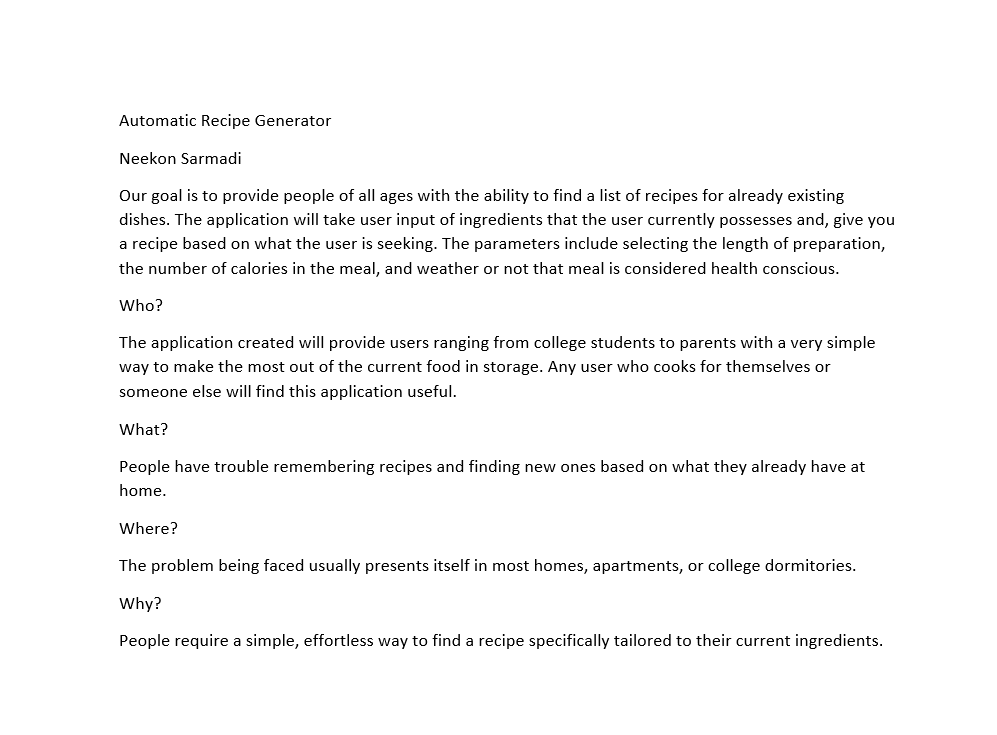
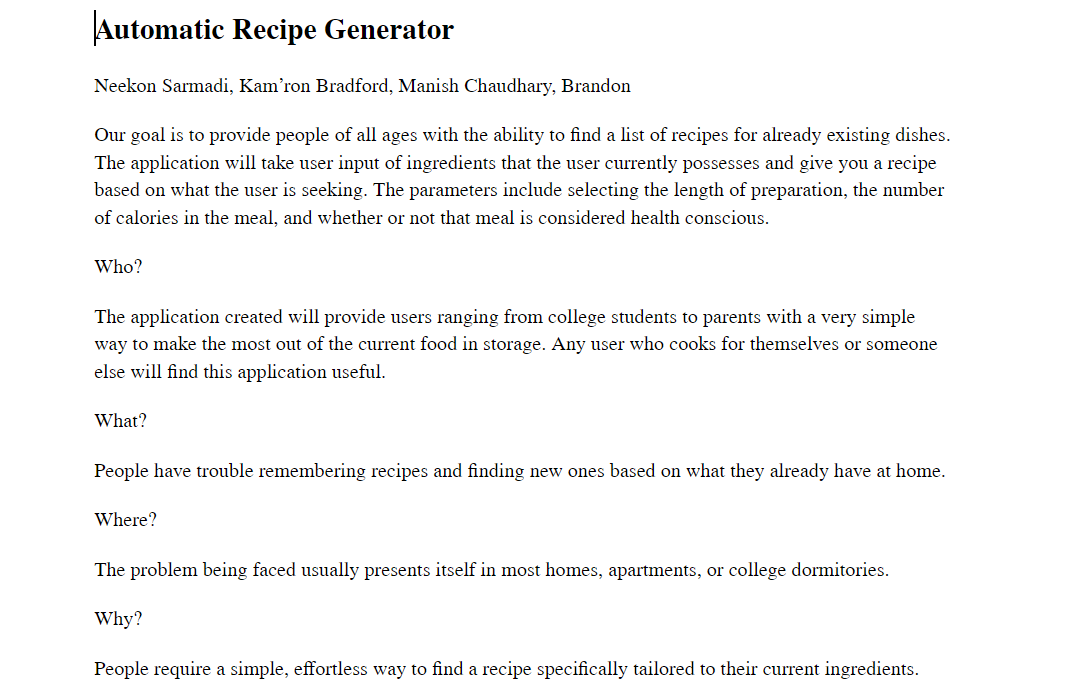
Add files via upload

diff --git a/index.html b/index.html
@@ -11,7 +11,7 @@
             <section class="ass-details">
                 <h2> Problem Statement: </h2>
                 <p>
-                    Our goal is to provide people of sall ages with the ability to find a list of recipes for already existing dishes. The application will take user input of ingredients that the user currently possesses and, give you a recipe based on what the user is seeking. The parameters include selecting the length of preparation, the number of calories in the meal, and weather or not that meal is considered health conscious. 
+                    Our goal is to provide people of all ages with the ability to find a list of recipes for already existing dishes. The application will take user input of ingredients that the user currently possesses and, give you a recipe based on what the user is seeking. The parameters include selecting the length of preparation, the number of calories in the meal, and weather or not that meal is considered health conscious. 
                 </p>
                 <a href="files/problem-statement.pdf">Problem Statment pdf</a>
             </section>
